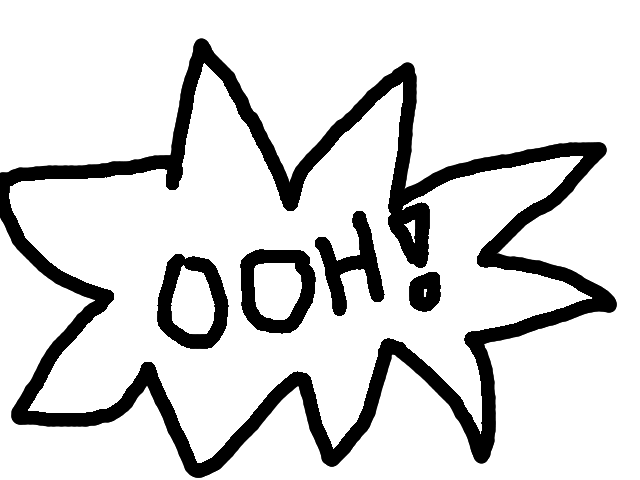
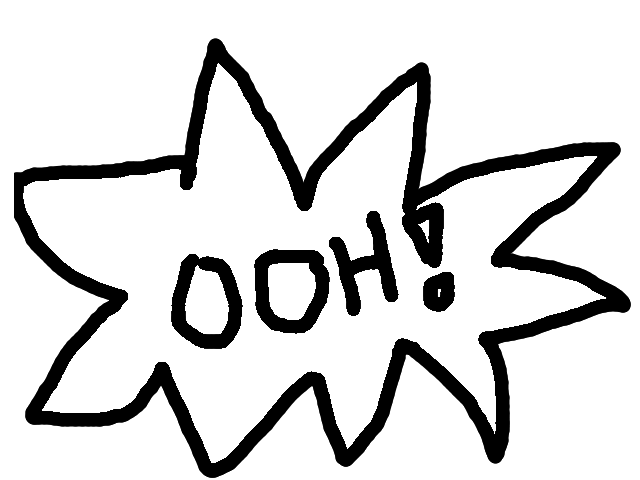
Working ouchie and ow text bubbles

Changed region(s): [[0.0, 0.0625, 1.0, 1.0]]

diff --git a/game.py b/game.py
@@ -1,7 +1,7 @@
 import pygame as pg
 import sys
 import math
-from hand import Player, Bruise
+from hand import Player, Bruise, Ouchie, Ooh
 
 
 pg.init()
@@ -20,7 +20,7 @@ pg.display.set_caption("BUTTCON2019")
 
 
 clock = pg.time.Clock()
-background = pg.image.load("butt4.jpg")
+background = pg.image.load("butt5.png")
 
 # sprites = pg.sprite.Group()
 sprites = pg.sprite.LayeredUpdates()
@@ -39,9 +39,10 @@ player_charging = 0
 font = pg.font.Font(None, 150)
 font2 = pg.font.Font(None, 30)
 poslog = {}
+super_smack = False
 
 
-MAX_SCORE = 500
+MAX_SCORE = 5000
 
 pg.joystick.init()
 joystick = pg.joystick.Joystick(0)
@@ -108,11 +109,11 @@ while running:
         hold_down_time = pg.time.get_ticks()
     if slap >= 2 and not pressed[pg.K_COMMA]:
         slap = 1
-        hold_down_time = 0
         start_time = pg.time.get_ticks()
     if slap == 2 and pressed[pg.K_COMMA] and pg.time.get_ticks() - hold_down_time > 500:
         slap = 3
         start_time = pg.time.get_ticks()
+        super_smack = True
     if (
         slap == 3
         and pressed[pg.K_COMMA]
@@ -121,8 +122,21 @@ while running:
         slap = 4
         start_time = pg.time.get_ticks()
     if slap == 1 and pg.time.get_ticks() - start_time > 10:
-        sprites.add(Bruise(player.rect.x, player.rect.y))
+        if super_smack:
+            sprites.add(Bruise(player.rect.x, player.rect.y))
+            super_smack = False
         slap = 0
+        if pg.time.get_ticks() - hold_down_time > 1000:
+            sprites.add(Ouchie(600, 50))
+        else:
+            score += pg.time.get_ticks() - hold_down_time
+            sprites.add(Ooh(200, 50))
+        hold_down_time = 0
+
+    for e in sprites:
+        if e.text:
+            if pg.time.get_ticks() - e.start > 500:
+                sprites.remove(e)
 
     if pressed[pg.K_LEFT]:
         deltaX = -50
@@ -160,7 +174,7 @@ while running:
         background, (50, display_height - 30), (50, display_height - 30, 100, 20)
     )
     screen.blit(fps, (50, display_height - 30))
-    # draw_health(score, 50, 50)
+    draw_health(score, 50, 50)
     if win:
         pg.draw.rect(
             screen, BLACK, pg.Rect(0, display_height / 2 - 50, display_width, 100)

diff --git a/hand.py b/hand.py
@@ -1,16 +1,18 @@
-import pygame
+import pygame as pg
 
 
-class Player(pygame.sprite.Sprite):
+class Player(pg.sprite.Sprite):
     def __init__(self, x, y):
         self._layer = 2
+        self.text = 0
+        self.start = pg.time.get_ticks()
         super().__init__()
         self.images = [
-            pygame.image.load("slap4.png").convert_alpha(),
-            pygame.image.load("unslap4.png").convert_alpha(),
-            pygame.image.load("slap5.png").convert_alpha(),
-            pygame.image.load("slap6.png").convert_alpha(),
-            pygame.image.load("slap7.png").convert_alpha(),
+            pg.image.load("slap4.png").convert_alpha(),
+            pg.image.load("unslap4.png").convert_alpha(),
+            pg.image.load("slap5.png").convert_alpha(),
+            pg.image.load("slap6.png").convert_alpha(),
+            pg.image.load("slap7.png").convert_alpha(),
         ]
         self.image = self.images[0]
         self.rect = self.image.get_rect()
@@ -23,11 +25,37 @@ class Player(pygame.sprite.Sprite):
         self.rect.y += deltaY
 
 
-class Bruise(pygame.sprite.Sprite):
+class Bruise(pg.sprite.Sprite):
+    def __init__(self, x, y):
+        self.text = 0
+        self._layer = 1
+        self.start = pg.time.get_ticks()
+        super().__init__()
+        self.image = pg.image.load("bruise3.png").convert_alpha()
+        self.rect = self.image.get_rect()
+        self.rect.x = x
+        self.rect.y = y
+
+
+class Ouchie(pg.sprite.Sprite):
     def __init__(self, x, y):
         self._layer = 1
+        self.text = 1
+        self.start = pg.time.get_ticks()
         super().__init__()
-        self.image = pygame.image.load("bruise2.png").convert_alpha()
+        self.image = pg.image.load("ouchie.png").convert_alpha()
+        self.rect = self.image.get_rect()
+        self.rect.x = x
+        self.rect.y = y
+
+
+class Ooh(pg.sprite.Sprite):
+    def __init__(self, x, y):
+        self._layer = 1
+        self.text = 1
+        self.start = pg.time.get_ticks()
+        super().__init__()
+        self.image = pg.image.load("ooh.png").convert_alpha()
         self.rect = self.image.get_rect()
         self.rect.x = x
         self.rect.y = y
